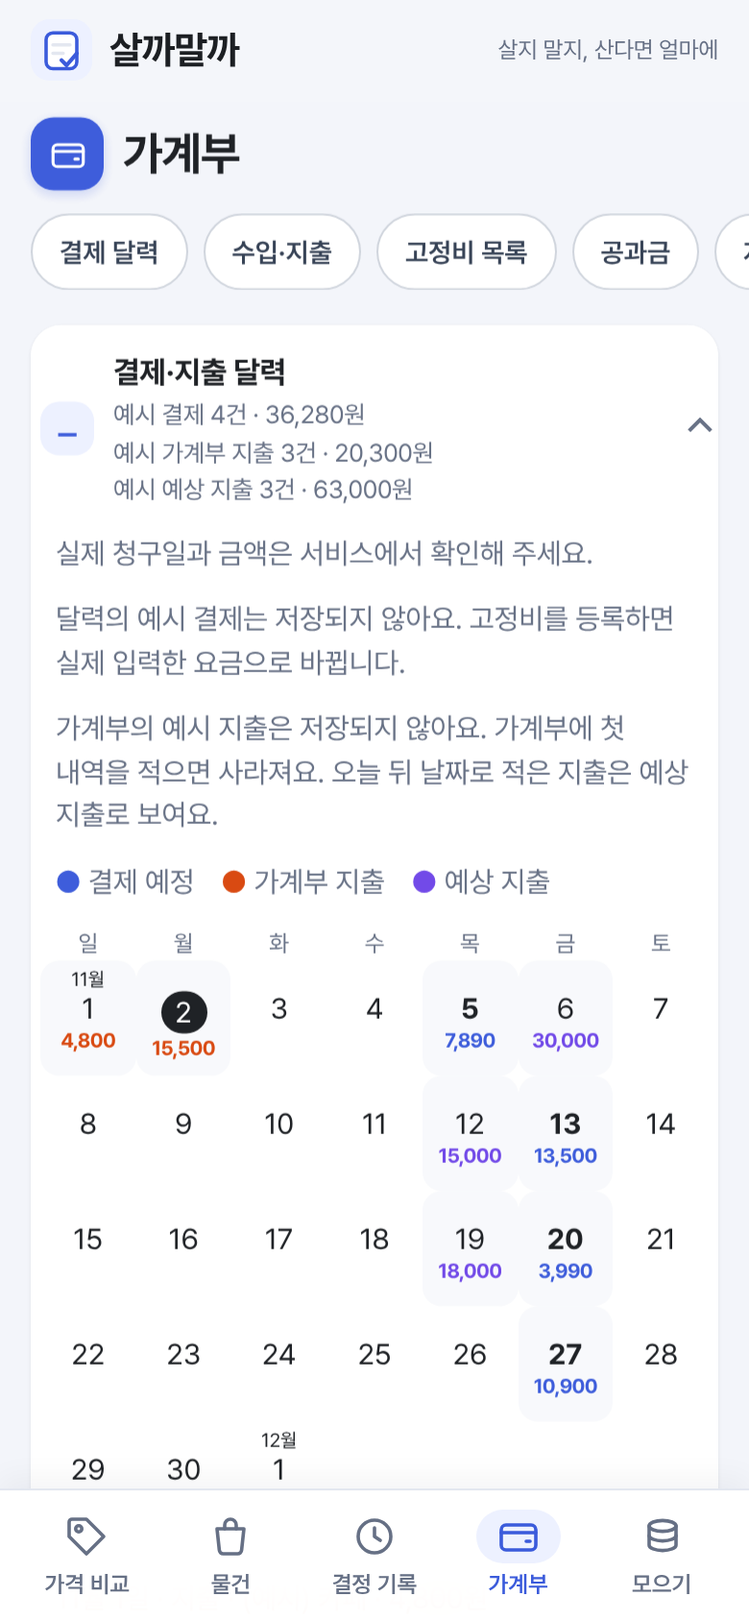
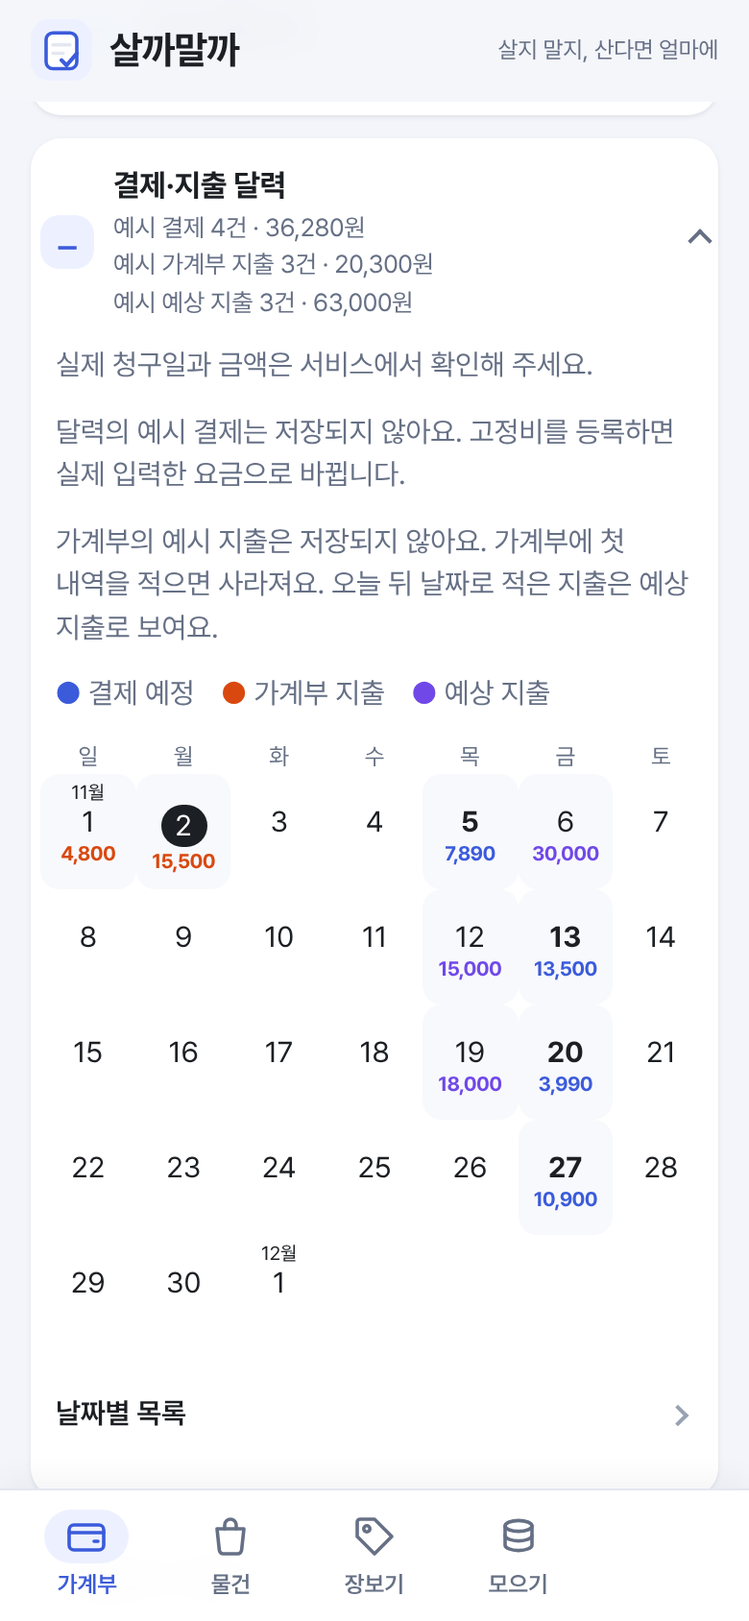
docs: record step 45 (four menus, ledger home), README and screenshots
- TODO 45단계, DEVLOG entry, PRD v1.02 (top table notes F86).
- README: menu/first-screen rows, ?tab=photo link, counts (PRD v1.02,
  AC223, step 45, 2036 tests), small updates to the reflection lines
  that described the old first screen.
- Screenshots retaken with capture.cjs (SKIP_V1=1 keeps the v1 shots);
  capture.cjs follows the new menus and opens the photo demo by URL.
- Handoff note: the first-screen decision is resolved.

Claude-Session: https://claude.ai/code/session_01S73EWkt37hQWmLWtXna2dF

diff --git a/PRD.md b/PRD.md
@@ -1,9 +1,9 @@
 # 살까말까 PRD
 
-현재 버전: **1.01** (2026-11-03) · 판마다 바뀐 내용은 맨 아래 [개정 이력](#개정-이력)에 있다.
+현재 버전: **1.02** (2026-11-03) · 판마다 바뀐 내용은 맨 아래 [개정 이력](#개정-이력)에 있다.
 
 작성일: 2026-10-11  
-판: 1.01 (2026-11-03)  
+판: 1.02 (2026-11-03)  
 제작자: 강승준  
 완성 목표일: 2026-10-17 (1주 이내)  
 중간 과제(인공지능 프로그래밍) 마감: 미정 (제작자 확인 필요)  
@@ -43,7 +43,7 @@
 | **[추가] AI 입력·확인** | 가격표·묶음 사진, 말로 담기, 놓을 자리 치수 읽기, AI 결과를 고치고 확인한 뒤 적용 | F31\~F44, 10장 AI 공통. 공개 서버 배포는 아직 남음 |
 | **[추가] 생활비·모으기** | 고정비·공과금·정기배송, 집 재고·장보기·작은 지출, 사기 전후 기록, 모으기·지원 제도 | F45\~F71 |
 | **[추가] 사용 흐름** | 오늘 확인할 것, 빠른 담기, 30일 결제 달력, 이번 주 집밥, 사기 전 근거 요약, 상황별 시작 | F72\~F81 |
-| **[수정] 기존 기능** | 물건 담기의 이유를 선택 입력으로 변경, 백업 판 1→3, 담기 폼 접기, 가격 비교를 첫 화면으로 변경 | F01·F20·F24·F31·F49·F73·F81의 보강 기록 |
+| **[수정] 기존 기능** | 물건 담기의 이유를 선택 입력으로 변경, 백업 판 1→3, 담기 폼 접기, 가격 비교를 첫 화면으로 변경(2026-11-03 F86: 첫 화면은 가계부, 메뉴 네 개) | F01·F20·F24·F31·F49·F73·F81·F86의 보강 기록 |
 | **[보류]** | 1차 때 미완료인 구독 분석 13-4\~13-7과 실제 AI 서버 배포·스마트폰 확인 | [개발 Todo](./TODO.md)의 미완료 작업 |
 
 ### 1차 이후 비AI 요구사항 상세 대조
@@ -1620,4 +1620,4 @@ Claude가 정하고 제작자가 아직 확인하지 않은 결정이다. 기능
 
 판마다 바뀐 내용을 최근 판부터 적는다(검사 스크립트가 이 줄의 판 번호를 읽는다).
 
-버전: 1.01 · F86 주요 메뉴 네 개(가계부·물건·장보기·모으기)와 첫 화면 가계부, 물건 안 결정 기록 하위 탭, 상황별 시작 버튼(F81) 뺌, 가계부·모으기 화면 순서와 기본 접힘, 장보기의 가격표 사진 예시는 마지막 하위 탭과 `?tab=photo` 바로가기, AC97·AC195·AC196 기대값 고침, AC217\~AC223(2026-11-03 제작자 요청 "탭은 4개로 가자", "3번은 가계부로 하자") · 1.00 · F82 빈 화면 예시: 물건·결정 기록에 저장되지 않는 예시 줄, 모으기 요약의 빈 칸에 예시 금액(AC216, 2026-11-03 제작자 "전체적으로 비어 있는 데에 기본으로 예시 좀") · 0.99 · 문서 정리만: 판마다 바뀐 내용을 맨 아래 '개정 이력'으로 옮겨 맨 위에서 1차 이후 바뀐 요구사항 표가 먼저 보이게 하고, GitHub에서 취소선이 되던 범위 표시 '\~'를 이스케이프함(2026-11-03 제작자 "이런 문서 표부터 보이게"), 기능 변경 없음 · 0.98 · F84·F74 가계부 기록이 없을 때 요약·현황판·달력이 같은 저장되지 않는 예시(쓴 돈·오늘 뒤 예상 지출·모을 금액 100,000원)를 쓰고, 달력은 오늘 뒤 날짜의 지출을 '예상 지출'(보라)로 나눔, 요약 네 칸 높이 맞춤(AC215, 2026-11-03 제작자 요청) · 0.97 · F74 '결제·지출 달력': 이번 달 1일부터 그리고 가계부 지출을 결제 예정과 다른 색으로, 점 대신 날짜 아래 금액(AC212\~AC213, 2026-11-03 제작자 요청), F84 가계부 요약에 '이번 달 모을 금액' 칸(AC214, 2026-11-03 제작자 "저축/모으고 싶은 금액 하나 추가") · 0.96 · F85 물건 분류 아이콘(취미·식비·생활용품·옷·잡화·전자기기·공부·기타 중 선택, 고르지 않으면 첫 글자 표식), AC209\~AC211(2026-11-03 제작자 "아이콘 여러 개 선택할 수 있게 해서 취미·식비 이런 거 하나 선택해서 아이콘으로") · 0.95 · F83 라면·젤리 진열대에도 다나와 낱개 상품 페이지에서 확인한 표시 최저가 3건씩을 붙이고 다나와 상품 링크를 버튼 모양으로 바꿈(2026-11-03 제작자 요청) · 0.94 · F83 가격표 사진 예시를 같은 차 진열대 사진의 세 칸에서 서로 다른 사진 세 장(차 진열대 CC0·라면 진열대·젤리 진열대 제작자 직접 촬영)으로 바꾸고 처음 보이는 사진을 라면 진열대로 함. 라면·젤리는 2026-11-02 로컬 Gemini 실제 응답의 상품명·가격·개수를 고치지 않고 옮김(2026-11-02 제작자 요청) · 0.93 · 1장 디자인 방향에 다른 탭의 가계부식 표시(카드 이름 앞 첫 글자 표식, 요약 큰 숫자 칸, 할인 결과 A·B 두 칸과 더 싼 쪽 강조)를 추가(2026-11-02 제작자 "다른 탭들도 가계부처럼") · 0.92 · F83 가격표 사진 예시는 처음부터 첫 사진 결과를 펼치고 '결과 보기' 버튼을 없앰(2026-11-02 제작자 요청) · 0.91 · F84 가계부 보기(달 이동·세 칸 요약·분류별 지출·날짜별 내역 묶음·이달 현황판과 달별 모을 금액·지난달 비교), AC203\~AC208(2026-11-02 제작자 "뱅크샐러드를 참고해 좋아 보이는 기능도") · 0.90 · 1장 디자인 방향에서 그라데이션 장식을 빼고 단색으로 정함(2026-11-02 제작자 "그라데이션은 없는 게 더 낫다") · 0.89 · 1장 디자인 방향의 강조색을 제작자가 고른 '세련된 블루'(#3b5bdb)로 바꾸고 장식 요소를 정함(2026-11-02) · 0.88 · 1장 디자인 방향에 비교 입력 2열·결과 강조·물건 카드 구분선 추가, 기능·문구 변경 없음(2026-11-02 제작자 "좀 더 개선") · 0.87 · 1장 디자인 방향에 하단 메뉴·분할 하위 탭·가계부 바로가기와 카드·입력 모양을 추가, 기능·문구 변경 없음(2026-11-02 제작자 요청) · 0.86 · 문서 정정만: 4장의 공개 사이트 AI 문장을 F83의 저장된 예시와 맞추고 화면 전후 사진의 촬영 조건을 적음, 기능 변경 없음(2026-11-02) · 0.85 · 가계부 달력 우선 배치와 저장되지 않는 예시, 공개 사진 시연(2026-11-02) · 0.83 · 고정비·모으기 화면 순서와 기본 접힘, 지원 제도 안내 및 발표 전후 비교를 보강(2026-11-02 제작자 요청) · 0.82 · 1차 이후 비AI 기능을 분야별로 대조하고 AI 재검증 기록을 연결(2026-11-02 제작자 요청) · 0.81 · 1차 이후 추가·수정 요구사항 표시와 화면 전후 비교(2026-11-02 제작자 요청) · 0.80 · 가격 비교·사진 첫 화면과 장보기·사기 전 입력 동선 보강(F31·F49·F75·F76·F79·F81, AC195\~AC202; 2026-11-02 제작자 UX 요청) · 0.78 · 9장 자동 테스트 수를 AC01\~AC194·1983개로 정정(2026-11-02, 28단계 보강 뒤) · 0.77 · 자잘한 지출에서 한 주 시도 선택·저장·완료 보강(F78, AC192\~AC194; 2026-11-02 최종 점검) · 0.76 · 9장 자동 테스트 수를 AC01\~AC191·1979개로 정정(2026-11-02, 25\~27단계 구현 뒤) · 0.75 · 정기배송 결제일과 7일 비교 기간의 화면 문구를 명확히 함(2026-11-02 구현 뒤 점검) · 0.74 · 이번 주 집밥·정기배송 중복·작은 지출 시도·사기 전 요약·결제 전 확인·상황별 시작(F76\~F81, AC180\~AC191; 2026-11-02 제작자 “전부다 수행해보자”) · 0.73 · 9장 자동 테스트 수 정정: AC01\~AC171·1952개 → AC01\~AC179·1965개(2026-11-02, 결제 달력·장보기 초안 구현 뒤) · 0.72 · 30일 결제 달력·장보기 초안(F74\~F75, AC172\~AC179; 2026-11-02 제작자 "두개다 ㅅ", 세부는 9장 확인 전) · 0.71 · 9장 자동 테스트 수 정정: AC01\~AC162·1938개 → AC01\~AC171·1952개(2026-11-02, 사용 흐름 개선 구현 뒤) · 0.70 · F73 빠른 담기에 맞춰 첫 화면 설명을 짧게 고침(AC79, 2026-11-02 제작자 입력 부담 피드백) · 0.69 · F73 빠른 담기에서 F31 사진 초안의 이유 필수 안내와 AC54 기대를 선택 입력에 맞춤(2026-11-02, 23-4 구현 중) · 0.68 · 오늘 확인할 것·빠른 물건 담기(F72\~F73, F01·F24·F30 보강, AC163\~AC171; 2026-11-02 제작자 추가 기능 방향 동의, 세부는 9장 확인 전) · 0.67 · 9장 자동 테스트 수 정정: AC01\~AC150·1917개 → AC01\~AC162·1938개(2026-11-02, 절약·저축 4단계와 백업 화면 시험 뒤) · 0.66 · 1장 디자인 방향에 제작자 화면 피드백과 공통 그림·접힘 표시 반영(2026-11-02) · 0.65 · F71 친구 정산 화면·오류 문장 명시(2026-11-02, 4단계 Task 5, 9장 제작자 확인 대기) · 0.64 · F70 포인트·쿠폰 입력·오류 문장 명시(2026-11-02, 4단계 Task 4, 9장 제작자 확인 대기) · 0.63 · F69 카드 실적 입력·오류 문장과 해당 월 범위 명시(2026-11-02, 4단계 Task 3, 9장 제작자 확인 대기) · 0.62 · F68 공식 안내와 저장 상태의 화면 문장을 명시(2026-11-02, 4단계 Task 2, 9장 제작자 확인 대기) · 0.61 · 절약·저축 4단계 받을 수 있는 돈(F68\~F71·F20 보강, AC151\~AC162; 2026-11-02 설계 P4·제작자 요청, 새 결정은 9장 제작자 확인 전) · 0.60 · 9장 자동 테스트 수 정정: AC01\~AC132·1880개 → AC01\~AC150·1917개(2026-11-02, 절약·저축 3단계와 담기 화면 개선 뒤) · 0.59 · 담기 폼 접기·쓰는 곳 후보 펼치기(F24·F45·F51, AC149\~AC150; 2026-11-02 제작자 화면 요청) · 0.58 · 0.57 버전 줄의 출처 문장을 9장 결정 목록 참조로 바로잡음(2026-11-01) · 0.57 · F66·F67 모으기 별도 금액 안내 문장 명시(2026-11-01, 3단계 Task 7 준비, 9장 제작자 확인 대기) · 0.56 · 절약·저축 3단계 사기 전·산 뒤(F61\~F67, F20 보강, AC133\~AC148; 2026-11-01 제작자 요청·설계 P3, 새 결정은 9장 제작자 확인 전) · 0.55 · 9장 자동 테스트 수 정정: AC01\~AC116·1833개 → AC01\~AC132·1880개(2026-11-01, 절약·저축 2단계 구현·전체 리뷰 뒤) · 0.54 · F60 배달 비교 화면 문장·최소 주문 미달 때 무료배달 비교 숨김 명시(2026-11-01, 2단계 Task 8, Claude 결정·제작자 확인 전) · 0.53 · F59 자잘한 지출 화면·저장 안내 문장 명시(2026-11-01, 2단계 Task 7 준비, Claude 결정·제작자 확인 전) · 0.52 · F58 있어서 안 산 성공 안내와 모으기 설명 명시(2026-11-01, 2단계 Task 6 준비, Claude 결정·제작자 확인 전) · 0.51 · F57 모으기의 대체 금액 문장과 빈 상태 기준 명시(2026-11-01, 2단계 Task 5 준비, Claude 결정·제작자 확인 전) · 0.50 · F54 화면·저장 안내 문장 명시(2026-11-01, 2단계 Task 2 준비, Claude 결정·제작자 확인 전) · 0.49 · 절약·저축 P2 집에 있는 것·자잘한 지출(F54\~F60, F20 보강, AC117\~AC132; 2026-11-01 제작자 요청과 설계 P2, 새 결정은 9장 제작자 확인 전) · 0.48 · 9장 최종 완성 기준 자동 테스트 수 정정: AC01\~AC99·1741개 → AC01\~AC116·1833개(2026-11-01, 절약·저축 1b 구현 뒤 전체 테스트) · 0.47 · F52 통신 비교 링크에서 스마트초이스를 제외함(2026-11-01, 20초 재확인에도 이 환경에서 접속하지 못함) · 0.46 · 절약·저축 1b: 요금 바뀜 기록(F50, 내가 낮춘 요금은 모으기의 줄어든 고정비에)·같은 곳에 쓰는 구독·멤버십(F51)·통신 약정과 요금 비교 링크(F52)·수도·가스·전기 요금(F53, 새 키 `buyornot.bills.v1`)·정기배송 주마다와 고정비 저장 안내 이름(F45 보강)·무료 체험 끝나기 전날 캘린더(F46 보강)·해지한 날과 요금 바뀐 날(F47 보강)·백업 v2에 공과금(F20 보강), AC100\~AC116, AC84 기대 문장(2026-11-01, 설계 문서 P1b와 총괄 판정 R45·R46·R47을 따름. 새 동작은 모두 9장 '절약·저축 1b에서 정한 것'에 제작자 확인 전으로 있음) · 0.45 · 9장 최종 완성 기준의 자동 테스트 수 정정: AC01\~AC80·1551개 → AC01\~AC99·1741개, 9장 정하지 못한 것에 고정비 종류를 바꿀 때의 안내 질문 한 줄(2026-11-01, 절약·저축 1a 최종 검토 뒤) · 0.44 · 절약·저축 1a: 고정비 정리함(F45, 구독 탭을 넓힘)·무료 체험 끝나는 날(F46)·해지했어요(F47)·모으기(F48, 줄어든 고정비·참은 구매·옮긴 돈을 따로, 저축 목표)·주요 메뉴 다섯 개(F49)·백업 v2(F20 보강), AC81\~AC99(2026-11-01, 설계 문서·GPT 53번 상담·빌더 점검 뒤 총괄 판정을 따름. 새 동작은 모두 9장 '절약·저축 1a에서 정한 것'에 제작자 확인 전으로 있음) · 0.43 · F44 캡처 크게 보기(R29-N1) 이유에 10/31 정정을 덧붙임: 근거로 적은 평가 A H1은 남아 있던 모의 응답이었다(2026-10-31, 평가 C) · 0.42 · F24 완료 기준에 AC80 연결(2026-10-31, 개발 2회차 최종 재검토) · 0.41 · 9장 최종 완성 기준의 자동 테스트 수 정정: AC01\~AC79·1544개 → AC01\~AC80·1551개(2026-10-31, 개발 2회차 전체 리뷰 뒤) · 0.40 · 담은 물건을 바로 결정하거나 지우면 담은 직후 안내와 '방금 담았어요.'도 사라짐(F24, 판정 R43, AC80, 2026-10-31 개발 2회차 전체 리뷰, Claude 결정·제작자 확인 전) · 0.39 · 9장 최종 완성 기준의 자동 테스트 수 정정: AC01\~AC68·1465개 → AC01\~AC79·1544개(2026-10-31, 평가 B P10, 판정 R38) · 0.38 · 평가 2회차(평가 B) 개선: Gemini가 429를 주면 `429 upstream_limited`와 새 실패 문구, 키가 없거나 비면 Gemini를 부르지 않고 `503 disabled`(10장 AI 공통·F43, 판정 R38-P6), F32 확인 상자 첫 줄 'AI가 읽은 내용'과 F32·F44 확인 상자 첫 줄을 상자 설명으로(R38-I8·R38-P9), 구매함으로 옮긴 직후 회고 안내 한 줄(F18, R38-N3), 빈 목록일 때 서비스 설명 문장을 담기 폼 위로(F24, R38-I3), AC60 기대값, AC75\~AC79(2026-10-31, 평가 B, GPT 51번, Claude 결정, 제작자 확인 전) · 0.37 · F44 치수 읽기 문구(R29-I1)의 이유에 정정: 평가 때 본 사진에 없는 치수는 남아 있던 모의 응답이었음(2026-10-31, 평가 B 뒤 확인) · 0.36 · 다른 탭 때문에 담기가 반영되지 않으면 담은 직후 안내를 띄우지 않고 입력을 그대로 둠(F24, 판정 R30), 8장 기술 문장의 '서버를 쓰지 않음' 정정(2026-10-31, 개발 1회차 준비, Claude 결정·제작자 확인 전) · 0.35 · 평가 1회차 고칠 것: 9장 남은 결정을 한 줄씩 목록으로 바꾸고 빠진 결정을 채움(P5), 사진 초안 링크 비우기(F31, 판정 R29-P2), 담은 직후 새 카드로(F24, R29-P3), 치수 읽기 'AI가 읽은 내용'(F44, R29-I1)·캡처 크게 보기(F44, R29-N1), 결과 화면 문구(F31·F32·F06, R29-I2), AC69\~AC74, 9장 테스트 수·AC63 시험용 값 정정(2026-10-31, 평가 1회차 결정, GPT 50번, Claude 결정·제작자 확인 전) · 0.34: Gemini 출력 길이 상한(가격표 6144·나머지 4096)과 치수를 글자로 받기(판정 R25\~R27, 2026-10-31, GPT 49번, Claude 결정·제작자 확인 전) · 0.33: F44 2단계 표기 세부(모르는 축 '모름', 상태 이름 위치, 판정 R23, 2026-10-30, Claude 결정·제작자 확인 전) · 0.32: AC65 '다른 탭에서 결정된 뒤 저장'을 기존 여러 탭 규칙(AC37-2)과 맞춤(판정 R22, 2026-10-30, Claude 결정·제작자 확인 전) · 0.31: F43 '더 읽음' 문장의 조사를 AC63 예와 맞춤({상품을|표기를}, 2026-10-30 구현 중) · 0.30: F31 상품명이 비면 온라인 확인을 막고 "상품명을 적어 주세요"·상품명 칸 80자 상한(최종 리뷰, 2026-10-30, Claude 결정·제작자 확인 전) · 0.29: F43 채점 세부(단가 가격표 정답·최저가가 같은 허용 줄·모양이 다른 응답, 판정 R14·R15, 2026-10-30, Claude 결정·제작자 확인 전) · 0.28: F33 녹음 형식이 비면 보내지 않음(R11)·받아쓰는 중 메뉴 이동은 계속(R12)·담아 두면 녹음·받아쓰기를 끊음(R13)(2026-10-30, Claude 결정·제작자 확인 전) · 0.27: F33 받아쓴 말이 비면 첫 안내 줄을 뺌(판정 R10)·'을/를 채웠어요'(2026-10-30, Claude 결정·제작자 확인 전) · 0.26: 구현 중 정한 것 반영: 사진 고르기에 capture 없음, F31 진행 문구·결과 제목, F32 상품 0개 문장·단위를 고른 뒤 채울 값 다시 보이기·'개'를 고르면 계산용 개수 비움(2026-10-30, 판정 R7\~R9, Claude 결정·제작자 확인 전) · 0.25: 앱 사진 대기 상한 45초 → 60초(요청 하나마다, 서버 55초 + 5초, 2026-10-30, GPT 45번, Claude 결정·제작자 확인 전) · 0.24: 1단계 이어서 F43 AI 성적표·F44 놓을 자리 확인(2026-10-29, GPT 37\~41번 상담 반영) · 0.23: 중간 과제 AI 기능 1단계 명세(F31\~F33·F35, 2026-10-28, GPT 33\~36번 상담 반영) · 0.22까지: 4차 추가(고민 노트) + 다듬기 + 구독 이용 분석 1단계(넷플릭스 시청 기록 파일) + 카드·담기 폼 체크리스트 + 회고를 비슷한 기록에 연결 + 오늘의 고민으로 이동 + 묶음 비교에 한 달에 쓰는 양, 무료배송 탭 뺌(10/13)
+버전: 1.02 · 문서 정정만: 맨 위 [수정] 줄에 F86 첫 화면 가계부·메뉴 네 개를 적음(2026-11-03), 기능 변경 없음 · 1.01 · F86 주요 메뉴 네 개(가계부·물건·장보기·모으기)와 첫 화면 가계부, 물건 안 결정 기록 하위 탭, 상황별 시작 버튼(F81) 뺌, 가계부·모으기 화면 순서와 기본 접힘, 장보기의 가격표 사진 예시는 마지막 하위 탭과 `?tab=photo` 바로가기, AC97·AC195·AC196 기대값 고침, AC217\~AC223(2026-11-03 제작자 요청 "탭은 4개로 가자", "3번은 가계부로 하자") · 1.00 · F82 빈 화면 예시: 물건·결정 기록에 저장되지 않는 예시 줄, 모으기 요약의 빈 칸에 예시 금액(AC216, 2026-11-03 제작자 "전체적으로 비어 있는 데에 기본으로 예시 좀") · 0.99 · 문서 정리만: 판마다 바뀐 내용을 맨 아래 '개정 이력'으로 옮겨 맨 위에서 1차 이후 바뀐 요구사항 표가 먼저 보이게 하고, GitHub에서 취소선이 되던 범위 표시 '\~'를 이스케이프함(2026-11-03 제작자 "이런 문서 표부터 보이게"), 기능 변경 없음 · 0.98 · F84·F74 가계부 기록이 없을 때 요약·현황판·달력이 같은 저장되지 않는 예시(쓴 돈·오늘 뒤 예상 지출·모을 금액 100,000원)를 쓰고, 달력은 오늘 뒤 날짜의 지출을 '예상 지출'(보라)로 나눔, 요약 네 칸 높이 맞춤(AC215, 2026-11-03 제작자 요청) · 0.97 · F74 '결제·지출 달력': 이번 달 1일부터 그리고 가계부 지출을 결제 예정과 다른 색으로, 점 대신 날짜 아래 금액(AC212\~AC213, 2026-11-03 제작자 요청), F84 가계부 요약에 '이번 달 모을 금액' 칸(AC214, 2026-11-03 제작자 "저축/모으고 싶은 금액 하나 추가") · 0.96 · F85 물건 분류 아이콘(취미·식비·생활용품·옷·잡화·전자기기·공부·기타 중 선택, 고르지 않으면 첫 글자 표식), AC209\~AC211(2026-11-03 제작자 "아이콘 여러 개 선택할 수 있게 해서 취미·식비 이런 거 하나 선택해서 아이콘으로") · 0.95 · F83 라면·젤리 진열대에도 다나와 낱개 상품 페이지에서 확인한 표시 최저가 3건씩을 붙이고 다나와 상품 링크를 버튼 모양으로 바꿈(2026-11-03 제작자 요청) · 0.94 · F83 가격표 사진 예시를 같은 차 진열대 사진의 세 칸에서 서로 다른 사진 세 장(차 진열대 CC0·라면 진열대·젤리 진열대 제작자 직접 촬영)으로 바꾸고 처음 보이는 사진을 라면 진열대로 함. 라면·젤리는 2026-11-02 로컬 Gemini 실제 응답의 상품명·가격·개수를 고치지 않고 옮김(2026-11-02 제작자 요청) · 0.93 · 1장 디자인 방향에 다른 탭의 가계부식 표시(카드 이름 앞 첫 글자 표식, 요약 큰 숫자 칸, 할인 결과 A·B 두 칸과 더 싼 쪽 강조)를 추가(2026-11-02 제작자 "다른 탭들도 가계부처럼") · 0.92 · F83 가격표 사진 예시는 처음부터 첫 사진 결과를 펼치고 '결과 보기' 버튼을 없앰(2026-11-02 제작자 요청) · 0.91 · F84 가계부 보기(달 이동·세 칸 요약·분류별 지출·날짜별 내역 묶음·이달 현황판과 달별 모을 금액·지난달 비교), AC203\~AC208(2026-11-02 제작자 "뱅크샐러드를 참고해 좋아 보이는 기능도") · 0.90 · 1장 디자인 방향에서 그라데이션 장식을 빼고 단색으로 정함(2026-11-02 제작자 "그라데이션은 없는 게 더 낫다") · 0.89 · 1장 디자인 방향의 강조색을 제작자가 고른 '세련된 블루'(#3b5bdb)로 바꾸고 장식 요소를 정함(2026-11-02) · 0.88 · 1장 디자인 방향에 비교 입력 2열·결과 강조·물건 카드 구분선 추가, 기능·문구 변경 없음(2026-11-02 제작자 "좀 더 개선") · 0.87 · 1장 디자인 방향에 하단 메뉴·분할 하위 탭·가계부 바로가기와 카드·입력 모양을 추가, 기능·문구 변경 없음(2026-11-02 제작자 요청) · 0.86 · 문서 정정만: 4장의 공개 사이트 AI 문장을 F83의 저장된 예시와 맞추고 화면 전후 사진의 촬영 조건을 적음, 기능 변경 없음(2026-11-02) · 0.85 · 가계부 달력 우선 배치와 저장되지 않는 예시, 공개 사진 시연(2026-11-02) · 0.83 · 고정비·모으기 화면 순서와 기본 접힘, 지원 제도 안내 및 발표 전후 비교를 보강(2026-11-02 제작자 요청) · 0.82 · 1차 이후 비AI 기능을 분야별로 대조하고 AI 재검증 기록을 연결(2026-11-02 제작자 요청) · 0.81 · 1차 이후 추가·수정 요구사항 표시와 화면 전후 비교(2026-11-02 제작자 요청) · 0.80 · 가격 비교·사진 첫 화면과 장보기·사기 전 입력 동선 보강(F31·F49·F75·F76·F79·F81, AC195\~AC202; 2026-11-02 제작자 UX 요청) · 0.78 · 9장 자동 테스트 수를 AC01\~AC194·1983개로 정정(2026-11-02, 28단계 보강 뒤) · 0.77 · 자잘한 지출에서 한 주 시도 선택·저장·완료 보강(F78, AC192\~AC194; 2026-11-02 최종 점검) · 0.76 · 9장 자동 테스트 수를 AC01\~AC191·1979개로 정정(2026-11-02, 25\~27단계 구현 뒤) · 0.75 · 정기배송 결제일과 7일 비교 기간의 화면 문구를 명확히 함(2026-11-02 구현 뒤 점검) · 0.74 · 이번 주 집밥·정기배송 중복·작은 지출 시도·사기 전 요약·결제 전 확인·상황별 시작(F76\~F81, AC180\~AC191; 2026-11-02 제작자 “전부다 수행해보자”) · 0.73 · 9장 자동 테스트 수 정정: AC01\~AC171·1952개 → AC01\~AC179·1965개(2026-11-02, 결제 달력·장보기 초안 구현 뒤) · 0.72 · 30일 결제 달력·장보기 초안(F74\~F75, AC172\~AC179; 2026-11-02 제작자 "두개다 ㅅ", 세부는 9장 확인 전) · 0.71 · 9장 자동 테스트 수 정정: AC01\~AC162·1938개 → AC01\~AC171·1952개(2026-11-02, 사용 흐름 개선 구현 뒤) · 0.70 · F73 빠른 담기에 맞춰 첫 화면 설명을 짧게 고침(AC79, 2026-11-02 제작자 입력 부담 피드백) · 0.69 · F73 빠른 담기에서 F31 사진 초안의 이유 필수 안내와 AC54 기대를 선택 입력에 맞춤(2026-11-02, 23-4 구현 중) · 0.68 · 오늘 확인할 것·빠른 물건 담기(F72\~F73, F01·F24·F30 보강, AC163\~AC171; 2026-11-02 제작자 추가 기능 방향 동의, 세부는 9장 확인 전) · 0.67 · 9장 자동 테스트 수 정정: AC01\~AC150·1917개 → AC01\~AC162·1938개(2026-11-02, 절약·저축 4단계와 백업 화면 시험 뒤) · 0.66 · 1장 디자인 방향에 제작자 화면 피드백과 공통 그림·접힘 표시 반영(2026-11-02) · 0.65 · F71 친구 정산 화면·오류 문장 명시(2026-11-02, 4단계 Task 5, 9장 제작자 확인 대기) · 0.64 · F70 포인트·쿠폰 입력·오류 문장 명시(2026-11-02, 4단계 Task 4, 9장 제작자 확인 대기) · 0.63 · F69 카드 실적 입력·오류 문장과 해당 월 범위 명시(2026-11-02, 4단계 Task 3, 9장 제작자 확인 대기) · 0.62 · F68 공식 안내와 저장 상태의 화면 문장을 명시(2026-11-02, 4단계 Task 2, 9장 제작자 확인 대기) · 0.61 · 절약·저축 4단계 받을 수 있는 돈(F68\~F71·F20 보강, AC151\~AC162; 2026-11-02 설계 P4·제작자 요청, 새 결정은 9장 제작자 확인 전) · 0.60 · 9장 자동 테스트 수 정정: AC01\~AC132·1880개 → AC01\~AC150·1917개(2026-11-02, 절약·저축 3단계와 담기 화면 개선 뒤) · 0.59 · 담기 폼 접기·쓰는 곳 후보 펼치기(F24·F45·F51, AC149\~AC150; 2026-11-02 제작자 화면 요청) · 0.58 · 0.57 버전 줄의 출처 문장을 9장 결정 목록 참조로 바로잡음(2026-11-01) · 0.57 · F66·F67 모으기 별도 금액 안내 문장 명시(2026-11-01, 3단계 Task 7 준비, 9장 제작자 확인 대기) · 0.56 · 절약·저축 3단계 사기 전·산 뒤(F61\~F67, F20 보강, AC133\~AC148; 2026-11-01 제작자 요청·설계 P3, 새 결정은 9장 제작자 확인 전) · 0.55 · 9장 자동 테스트 수 정정: AC01\~AC116·1833개 → AC01\~AC132·1880개(2026-11-01, 절약·저축 2단계 구현·전체 리뷰 뒤) · 0.54 · F60 배달 비교 화면 문장·최소 주문 미달 때 무료배달 비교 숨김 명시(2026-11-01, 2단계 Task 8, Claude 결정·제작자 확인 전) · 0.53 · F59 자잘한 지출 화면·저장 안내 문장 명시(2026-11-01, 2단계 Task 7 준비, Claude 결정·제작자 확인 전) · 0.52 · F58 있어서 안 산 성공 안내와 모으기 설명 명시(2026-11-01, 2단계 Task 6 준비, Claude 결정·제작자 확인 전) · 0.51 · F57 모으기의 대체 금액 문장과 빈 상태 기준 명시(2026-11-01, 2단계 Task 5 준비, Claude 결정·제작자 확인 전) · 0.50 · F54 화면·저장 안내 문장 명시(2026-11-01, 2단계 Task 2 준비, Claude 결정·제작자 확인 전) · 0.49 · 절약·저축 P2 집에 있는 것·자잘한 지출(F54\~F60, F20 보강, AC117\~AC132; 2026-11-01 제작자 요청과 설계 P2, 새 결정은 9장 제작자 확인 전) · 0.48 · 9장 최종 완성 기준 자동 테스트 수 정정: AC01\~AC99·1741개 → AC01\~AC116·1833개(2026-11-01, 절약·저축 1b 구현 뒤 전체 테스트) · 0.47 · F52 통신 비교 링크에서 스마트초이스를 제외함(2026-11-01, 20초 재확인에도 이 환경에서 접속하지 못함) · 0.46 · 절약·저축 1b: 요금 바뀜 기록(F50, 내가 낮춘 요금은 모으기의 줄어든 고정비에)·같은 곳에 쓰는 구독·멤버십(F51)·통신 약정과 요금 비교 링크(F52)·수도·가스·전기 요금(F53, 새 키 `buyornot.bills.v1`)·정기배송 주마다와 고정비 저장 안내 이름(F45 보강)·무료 체험 끝나기 전날 캘린더(F46 보강)·해지한 날과 요금 바뀐 날(F47 보강)·백업 v2에 공과금(F20 보강), AC100\~AC116, AC84 기대 문장(2026-11-01, 설계 문서 P1b와 총괄 판정 R45·R46·R47을 따름. 새 동작은 모두 9장 '절약·저축 1b에서 정한 것'에 제작자 확인 전으로 있음) · 0.45 · 9장 최종 완성 기준의 자동 테스트 수 정정: AC01\~AC80·1551개 → AC01\~AC99·1741개, 9장 정하지 못한 것에 고정비 종류를 바꿀 때의 안내 질문 한 줄(2026-11-01, 절약·저축 1a 최종 검토 뒤) · 0.44 · 절약·저축 1a: 고정비 정리함(F45, 구독 탭을 넓힘)·무료 체험 끝나는 날(F46)·해지했어요(F47)·모으기(F48, 줄어든 고정비·참은 구매·옮긴 돈을 따로, 저축 목표)·주요 메뉴 다섯 개(F49)·백업 v2(F20 보강), AC81\~AC99(2026-11-01, 설계 문서·GPT 53번 상담·빌더 점검 뒤 총괄 판정을 따름. 새 동작은 모두 9장 '절약·저축 1a에서 정한 것'에 제작자 확인 전으로 있음) · 0.43 · F44 캡처 크게 보기(R29-N1) 이유에 10/31 정정을 덧붙임: 근거로 적은 평가 A H1은 남아 있던 모의 응답이었다(2026-10-31, 평가 C) · 0.42 · F24 완료 기준에 AC80 연결(2026-10-31, 개발 2회차 최종 재검토) · 0.41 · 9장 최종 완성 기준의 자동 테스트 수 정정: AC01\~AC79·1544개 → AC01\~AC80·1551개(2026-10-31, 개발 2회차 전체 리뷰 뒤) · 0.40 · 담은 물건을 바로 결정하거나 지우면 담은 직후 안내와 '방금 담았어요.'도 사라짐(F24, 판정 R43, AC80, 2026-10-31 개발 2회차 전체 리뷰, Claude 결정·제작자 확인 전) · 0.39 · 9장 최종 완성 기준의 자동 테스트 수 정정: AC01\~AC68·1465개 → AC01\~AC79·1544개(2026-10-31, 평가 B P10, 판정 R38) · 0.38 · 평가 2회차(평가 B) 개선: Gemini가 429를 주면 `429 upstream_limited`와 새 실패 문구, 키가 없거나 비면 Gemini를 부르지 않고 `503 disabled`(10장 AI 공통·F43, 판정 R38-P6), F32 확인 상자 첫 줄 'AI가 읽은 내용'과 F32·F44 확인 상자 첫 줄을 상자 설명으로(R38-I8·R38-P9), 구매함으로 옮긴 직후 회고 안내 한 줄(F18, R38-N3), 빈 목록일 때 서비스 설명 문장을 담기 폼 위로(F24, R38-I3), AC60 기대값, AC75\~AC79(2026-10-31, 평가 B, GPT 51번, Claude 결정, 제작자 확인 전) · 0.37 · F44 치수 읽기 문구(R29-I1)의 이유에 정정: 평가 때 본 사진에 없는 치수는 남아 있던 모의 응답이었음(2026-10-31, 평가 B 뒤 확인) · 0.36 · 다른 탭 때문에 담기가 반영되지 않으면 담은 직후 안내를 띄우지 않고 입력을 그대로 둠(F24, 판정 R30), 8장 기술 문장의 '서버를 쓰지 않음' 정정(2026-10-31, 개발 1회차 준비, Claude 결정·제작자 확인 전) · 0.35 · 평가 1회차 고칠 것: 9장 남은 결정을 한 줄씩 목록으로 바꾸고 빠진 결정을 채움(P5), 사진 초안 링크 비우기(F31, 판정 R29-P2), 담은 직후 새 카드로(F24, R29-P3), 치수 읽기 'AI가 읽은 내용'(F44, R29-I1)·캡처 크게 보기(F44, R29-N1), 결과 화면 문구(F31·F32·F06, R29-I2), AC69\~AC74, 9장 테스트 수·AC63 시험용 값 정정(2026-10-31, 평가 1회차 결정, GPT 50번, Claude 결정·제작자 확인 전) · 0.34: Gemini 출력 길이 상한(가격표 6144·나머지 4096)과 치수를 글자로 받기(판정 R25\~R27, 2026-10-31, GPT 49번, Claude 결정·제작자 확인 전) · 0.33: F44 2단계 표기 세부(모르는 축 '모름', 상태 이름 위치, 판정 R23, 2026-10-30, Claude 결정·제작자 확인 전) · 0.32: AC65 '다른 탭에서 결정된 뒤 저장'을 기존 여러 탭 규칙(AC37-2)과 맞춤(판정 R22, 2026-10-30, Claude 결정·제작자 확인 전) · 0.31: F43 '더 읽음' 문장의 조사를 AC63 예와 맞춤({상품을|표기를}, 2026-10-30 구현 중) · 0.30: F31 상품명이 비면 온라인 확인을 막고 "상품명을 적어 주세요"·상품명 칸 80자 상한(최종 리뷰, 2026-10-30, Claude 결정·제작자 확인 전) · 0.29: F43 채점 세부(단가 가격표 정답·최저가가 같은 허용 줄·모양이 다른 응답, 판정 R14·R15, 2026-10-30, Claude 결정·제작자 확인 전) · 0.28: F33 녹음 형식이 비면 보내지 않음(R11)·받아쓰는 중 메뉴 이동은 계속(R12)·담아 두면 녹음·받아쓰기를 끊음(R13)(2026-10-30, Claude 결정·제작자 확인 전) · 0.27: F33 받아쓴 말이 비면 첫 안내 줄을 뺌(판정 R10)·'을/를 채웠어요'(2026-10-30, Claude 결정·제작자 확인 전) · 0.26: 구현 중 정한 것 반영: 사진 고르기에 capture 없음, F31 진행 문구·결과 제목, F32 상품 0개 문장·단위를 고른 뒤 채울 값 다시 보이기·'개'를 고르면 계산용 개수 비움(2026-10-30, 판정 R7\~R9, Claude 결정·제작자 확인 전) · 0.25: 앱 사진 대기 상한 45초 → 60초(요청 하나마다, 서버 55초 + 5초, 2026-10-30, GPT 45번, Claude 결정·제작자 확인 전) · 0.24: 1단계 이어서 F43 AI 성적표·F44 놓을 자리 확인(2026-10-29, GPT 37\~41번 상담 반영) · 0.23: 중간 과제 AI 기능 1단계 명세(F31\~F33·F35, 2026-10-28, GPT 33\~36번 상담 반영) · 0.22까지: 4차 추가(고민 노트) + 다듬기 + 구독 이용 분석 1단계(넷플릭스 시청 기록 파일) + 카드·담기 폼 체크리스트 + 회고를 비슷한 기록에 연결 + 오늘의 고민으로 이동 + 묶음 비교에 한 달에 쓰는 양, 무료배송 탭 뺌(10/13)

diff --git a/TODO.md b/TODO.md
@@ -1,6 +1,6 @@
 # 살까말까 개발 Todo
 
-기준: [PRD v1.00](./PRD.md)
+기준: [PRD v1.02](./PRD.md)
 제작자: 강승준  
 목표일: 2026-10-17  
 상태: 1차 실습 제출본(v1)은 2026-10-13 완료. 중간 과제 작업본은 14\~35단계 구현·자동 검사 완료(`saving`·`main` 브랜치, GitHub Pages 배포 완료). 36단계는 제출용 README 사진·문서 대조, 37단계는 기능을 유지한 디자인·배치 개선, 38단계는 가계부 앱을 참고한 가계부 보기(F84). 13-4\~13-7 구독 분석과 제작자 판정·실기기 확인·AI 서버 배포는 남아 있음.
@@ -45,6 +45,7 @@
 | 42 | 가계부 예시(쓴 돈·예상 지출·모을 금액)와 달력의 예상 지출, 요약 네 칸 높이, README 버전 주소 표(F84·F74 보강) | 완료 |
 | 43 | 문서 읽기 쉽게: PRD 맨 위에 바뀐 요구사항 표, 개정 이력은 맨 아래, `~` 취소선 고침, README 2·7장 | 완료 |
 | 44 | 빈 화면 예시: 물건·결정 기록 예시 줄, 모으기 요약 예시 금액(F82 보강) | 완료 |
+| 45 | 주요 메뉴 네 개(가계부·물건·장보기·모으기)와 첫 화면 가계부, 접어 둘 것 정리(F86) | 완료 |
 
 남은 일: 13-4\~13-7, 29\~31단계 제작자 화면 판정, 스마트폰 실기기 확인, 발표 연습(중간 과제 발표 날짜는 마감에 따라). (제작자) Cloudflare 계정·서버 배포(14-17·15-8), 실제 자료 정확도 평가 자료 확인(14-16·15-7), 다나와 자동 조회를 켤지, 사진 대기 60초 확인(PRD v0.25), 중간 과제 마감 확인, PRD 제작자 확인 전 결정과 판정표 확인([판정표](./docs/평가/판정표.md)의 '꼭 볼 줄'부터, 16-6·17-7·18-8), README 학생 서술 칸(16-7).
 
@@ -70,6 +71,7 @@
 | 11/01\~11/02, 18\~22단계 | 1차의 구독 정리에서 생활비 전체로 범위를 넓혀 고정비·집 재고·작은 지출·사기 전 입력·모으기·지원 제도를 추가. 백업도 판 1에서 판 3으로 확장 | `saving`에 구현, 옛 백업 호환 시험 완료. 제작자 판정 대기 |
 | 11/02, 23\~28단계 | 오늘 확인할 것, 두 칸 빠른 담기, 30일 결제 달력, 임시 장보기, 이번 주 집밥, 한 주 작은 지출 시도를 새로 추가 | 기존 기록을 이용하고 새 필수 입력을 최소화. 자동 시험 완료 |
 | 11/02, 29\~31단계 | 가격 비교·사진을 첫 화면으로 변경. 장보기의 겹친 요리 선택을 하나로 합침. 물건 카드에서 사기 전 요약으로 바로 이동하도록 변경 | AC195\~AC202 구현, 전체 1990개 자동 테스트 통과. 실기기·제작자 화면 확인 대기 |
+| 11/03, 45단계 | 기능이 늘어 탭이 길어지자 다섯 탭을 실제 화면으로 재고 주요 메뉴를 네 개로 줄임. 첫 화면을 가격 비교에서 가계부로 되돌리고, 결정 기록은 물건 안으로, 집에 있는 것은 장보기로 옮기고, 상황별 시작 버튼을 뺌 | AC217\~AC223 구현, 가계부 6.1화면 → 3.9화면(390px, 빈 저장소) |
 | 계속 보류 | 1차에 남았던 구독 분석 13-4\~13-7은 완료로 바꾸지 않음. AI 서버 공개 배포와 실제 자료 정확도 평가도 미완료 | 미완료 항목은 체크박스 `[ ]` 유지 |
 | 11/02, 발표 문서 정리 | README를 1차 이후의 추가·개선과 최신 화면 중심으로 줄이고, 비AI 기능 상세 대조는 PRD v0.82에 기록. 조정용 사진 8장을 실제 Gemini로 재호출하고 결과·한계를 AI 평가 기록에 추가 | 공개 AI 서버 배포와 새 실제 자료 정확도 평가는 여전히 미완료. 최신 로컬 AI 응답 화면은 별도 캡처 |
 
@@ -808,6 +810,17 @@
 
 - [x] **44-1** 예시 줄 미리보기(`src/ui/ExamplePreview.tsx`)를 물건·결정 기록의 빈 안내에, 모으기 요약 예시와 빈 칸 예시 금액(`SavingsScreen`) — `src/App.emptyExamples.test.tsx`(AC216)
 - [x] **44-2** 전체 검사(vitest 2027/2027·lint·tsc)·커밋 `fe7f92c`·`main` 반영. 처음 넣은 위치는 빈 목록 상자 안이라 AC79(빈 상자에는 문장만) 시험이 실패해 별도 카드로 옮김
+
+## 45단계 주요 메뉴 네 개와 첫 화면 가계부 (PRD F86, AC217\~AC223, 2026-11-03 제작자 요청 "탭은 4개로 가자", "3번은 가계부로 하자")
+
+**사용자 확인 방법:** 새 브라우저로 열면 아래 메뉴가 가계부·물건·장보기·모으기 네 개이고 가계부가 열려 있다. 가계부는 요약 → 접힌 수입·지출 적기 → 달력 → 내역 → 현황판 → 분류별 지출 → 접힌 고정비·공과금 → 접힌 자잘한 지출 순서다(390px에서 6.1화면 → 3.9화면). 물건 위의 '결정 기록' 하위 탭을 누르면 결정 기록이 보인다. 장보기는 할인 비교부터이고, 주소 끝에 `?tab=photo`를 붙이면 가격표 사진 예시가 바로 열린다. 모으기의 받을 수 있는 돈은 맨 아래에 접혀 있다(2.4화면 → 1.3화면).
+
+- [x] **45-1** 다섯 탭을 390px 새 브라우저로 찍어 길이·접힌 묶음을 세고 '매일 / 가끔 / 시연용'으로 나눈 정리안을 제작자에게 제시, 제작자가 탭 네 개·적는 곳은 저장 형식을 바꾸지 않는 방법·첫 화면 가계부를 고름 `01597a1`
+- [x] **45-2** PRD v1.01 F86·AC217\~AC223, F49·F81·F74·F48·F68·F31·F83 변경 줄, AC97·AC195·AC196 기대값 고침, AC190\~AC191 뺌 `01597a1`
+- [x] **45-3** 화면: 주요 메뉴 네 개, 물건 하위 탭, 장보기(할인 비교부터·사진 예시는 마지막·`?tab=photo`·집에 있는 것), 가계부 순서와 접힘, 모으기 순서 — `src/App.tabs4.test.tsx`(AC217\~AC223) 먼저 실패 확인 뒤 구현, 기존 시험은 새 메뉴 이름·위치에 맞춤(상황별 시작 시험 삭제) `01597a1`
+- [x] **45-4** 전체 검사(vitest 2036/2036·lint·tsc)·360px 가로 넘침 없음 확인 `01597a1`
+- [x] **45-5** README 사진 다시 찍기(`capture.cjs` 새 메뉴 이름, `SKIP_V1=1`)·README 표·문장·DEVLOG 반영(이 기록 커밋)
+- [ ] **45-6** (제작자) 바뀐 메뉴를 화면·스마트폰으로 확인하고 `main`에 반영할지 정하기
 
 ## 추가 제안
 

diff --git a/docs/midterm_compare/README.md b/docs/midterm_compare/README.md
@@ -12,11 +12,11 @@
 
 ## 처음 열었을 때
 
-| 1차: 물건부터 담기 | 개선본: 가격표 사진 예시부터 시작 |
+| 1차: 물건부터 담기 | 개선본: 가계부부터 시작 |
 | :---: | :---: |
-| <img src="01-home.png" width="260" alt="1차 물건 담기 첫 화면"> | <img src="02-home.png" width="260" alt="개선본 가격 비교의 가격표 사진 예시 첫 화면"> |
+| <img src="01-home.png" width="260" alt="1차 물건 담기 첫 화면"> | <img src="02-home.png" width="260" alt="개선본 가계부 첫 화면"> |
 
-1차의 네 메뉴는 고민 중인 물건·가격 비교·결정 기록·구독이었다. 개선본은 가격 비교·물건·결정 기록·가계부·모으기 다섯 메뉴다. 공개 빌드는 가격 비교의 첫 탭으로 **가격표 사진 예시**를 보여 준다. 사진 버튼은 2026-11-02 로컬 Gemini가 읽은 응답을 저장해 둔 것을 다시 보여 줄 뿐, 사진을 새로 분석하지 않는다. 2026-11-02 디자인 개선(TODO 37단계) 뒤로는 휴대폰 폭에서 주요 메뉴가 화면 아래에 아이콘과 함께 붙고, 비교 탭 네 개는 2×2 분할 버튼으로 보인다.
+1차의 네 메뉴는 고민 중인 물건·가격 비교·결정 기록·구독이었다. 개선본은 2026-11-03(TODO 45단계)부터 가계부·물건·장보기·모으기 네 메뉴이고 가계부에서 시작한다(그 전에는 가격 비교·물건·결정 기록·가계부·모으기 다섯 메뉴에 가격 비교 시작). 결정 기록은 물건 안 하위 탭, 가격 비교는 장보기 안에 있다. **가격표 사진 예시**는 장보기의 마지막 비교 탭이고 주소 끝에 `?tab=photo`를 붙이면 바로 열린다. 사진 버튼은 2026-11-02 로컬 Gemini가 읽은 응답을 저장해 둔 것을 다시 보여 줄 뿐, 사진을 새로 분석하지 않는다. 2026-11-02 디자인 개선(TODO 37단계) 뒤로는 휴대폰 폭에서 주요 메뉴가 화면 아래에 아이콘과 함께 붙고, 비교 탭 네 개는 2×2 분할 버튼으로 보인다.
 
 ## 물건을 담을 때
 
@@ -24,15 +24,15 @@
 | :---: | :---: |
 | <img src="01-home.png" width="260" alt="1차 상품명 가격 이유 입력 폼"> | <img src="06-quick-add.png" width="260" alt="개선본의 빠른 담기에 예시 음성 문장이 채워진 모습"> |
 
-1차는 사고 싶은 이유를 적지 않으면 담을 수 없었다. 개선본은 이유와 갖고 싶은 정도를 `더 적기 (선택)`에 두었다. 오른쪽 사진은 `예시 음성 결과 채우기`로 미리 준비한 문장(‘무선 헤드폰 8만 원, 통학할 때 쓰려고 해요’)을 넣은 모습이며 녹음이나 AI 호출은 없다. [물건 탭 첫 화면](05-wishlist.png)에는 오늘 확인할 것과 상황별 시작 버튼이 추가됐다.
+1차는 사고 싶은 이유를 적지 않으면 담을 수 없었다. 개선본은 이유와 갖고 싶은 정도를 `더 적기 (선택)`에 두었다. 오른쪽 사진은 `예시 음성 결과 채우기`로 미리 준비한 문장(‘무선 헤드폰 8만 원, 통학할 때 쓰려고 해요’)을 넣은 모습이며 녹음이나 AI 호출은 없다. [물건 탭 첫 화면](05-wishlist.png)에는 고민 중·결정 기록 하위 탭과 오늘 확인할 것이 있다(상황별 시작 버튼은 45단계에서 뺌).
 
 ## 매달 나가는 돈과 가계부
 
-| 1차: 구독 요금·사용 기록 | 개선본: 결제 달력부터 시작하는 가계부 |
+| 1차: 구독 요금·사용 기록 | 개선본: 가계부의 결제·지출 달력 |
 | :---: | :---: |
 | <img src="03-subscriptions.png" width="260" alt="1차 구독 화면"> | <img src="04-fixed-costs.png" width="260" alt="개선본 가계부의 열린 결제 달력"> |
 
-구독에 통신·보험 등 고정비를 더하고, 공과금·자잘한 지출과 직접 적는 수입·지출을 가계부로 모았다. 달력은 처음부터 펼쳐져 있다. 고정비가 없으면 저장되지 않는 예시 결제 4건이 보이고, 실제로 고정비를 등록하면 사라진다. 금액은 실제 청구액이 아니다.
+구독에 통신·보험 등 고정비를 더하고, 공과금·자잘한 지출과 직접 적는 수입·지출을 가계부로 모았다. 45단계부터 가계부는 이달 요약 → 접힌 수입·지출 적기 → 달력 순서이고, 고정비·공과금과 자잘한 지출은 아래에 접혀 있다. 달력은 처음부터 펼쳐져 있고 날짜별 목록은 접혀 있다. 고정비가 없으면 저장되지 않는 예시 결제 4건이 보이고, 실제로 고정비를 등록하면 사라진다. 금액은 실제 청구액이 아니다.
 
 | 결제·지출 달력 | 가계부 이달 요약 |
 | :---: | :---: |
@@ -42,9 +42,9 @@
 
 ## 새 모으기 기능
 
-1차에는 모으기 탭이 없었다. 개선본은 참은 구매·줄어든 고정비·실제 옮긴 돈을 구분한다. 받을 수 있는 돈을 위에 두고 청년 월세 지원 안내를 펼쳐 보여 준다. 숫자별 계산 설명은 화면 아래에 모았다.
+1차에는 모으기 탭이 없었다. 개선본은 참은 구매·줄어든 고정비·실제 옮긴 돈을 구분한다. 받을 수 있는 돈은 45단계부터 옮긴 기록 아래에 접어 두었다(그 전에는 위에 펼쳐 둠). 숫자별 계산 설명은 화면 아래에 모았다.
 
-<img src="10-benefits-current.png" width="260" alt="개선본 모으기와 받을 수 있는 돈">
+<img src="10-benefits-current.png" width="260" alt="개선본 모으기의 예시 요약과 저축 목표">
 
 ## 가격표 사진: 로컬 실제 AI와 공개 예시의 차이
 

diff --git a/docs/handoff/클라우드_이어받기_2026-11-02.md b/docs/handoff/클라우드_이어받기_2026-11-02.md
@@ -21,6 +21,10 @@
 
 답하기 전에 볼 것: 새 브라우저(빈 저장소)로 다섯 탭(가격 비교·물건·결정 기록·가계부·모으기)의 전체 화면을 390px에서 찍어 실제 길이와 접힌 묶음 수를 세고, PRD 맨 위 '1차 실습 제출본(v1)에서 바뀐 요구사항' 표와 TODO 14\~44단계를 함께 본다. 의견은 탭마다 '매일 쓰는 것 / 가끔 쓰는 것 / 시연용'으로 나눠 무엇을 접거나 옮기거나 뺄지 제안하고, 기능을 바꾸기 전에 제작자 확인을 받는다(simplifying-entry-flows 스킬). 아직 정하지 않은 '첫 화면을 가계부로' 결정도 같이 다룬다.
 
+## 2026-11-03 45단계: 탭 정리와 첫 화면 가계부 (위 '다음 대화의 첫 작업'을 마침)
+
+다섯 탭을 390px로 찍어 잰 뒤(가계부 6.1화면 등) 제작자가 **탭 네 개(가계부·물건·장보기·모으기)·첫 화면 가계부**를 골랐다. PRD v1.01 F86, TODO 45단계, DEVLOG에 적었다. 결정 기록은 물건 안 하위 탭, 집에 있는 것은 장보기로, 상황별 시작 버튼은 뺐다. 가격표 사진 예시는 장보기의 마지막 탭이고 `?tab=photo`로 바로 열린다. 저장 형식·백업은 그대로다. 작업 브랜치 `claude/determined-dirac-0ho0x7`에 push했고 `main` 반영(배포)은 제작자 확인 뒤다. 아래의 '남은 결정: 첫 화면'은 이것으로 풀렸다.
+
 ## 2026-11-03 현재 상태와 다음 세션이 할 일
 
 아래 '가격표 사진 예시 세 장' 작업은 끝났다(TODO 39단계, 배포 #53). 이어서 같은 세션에서 다음을 `main`에 반영했다.
